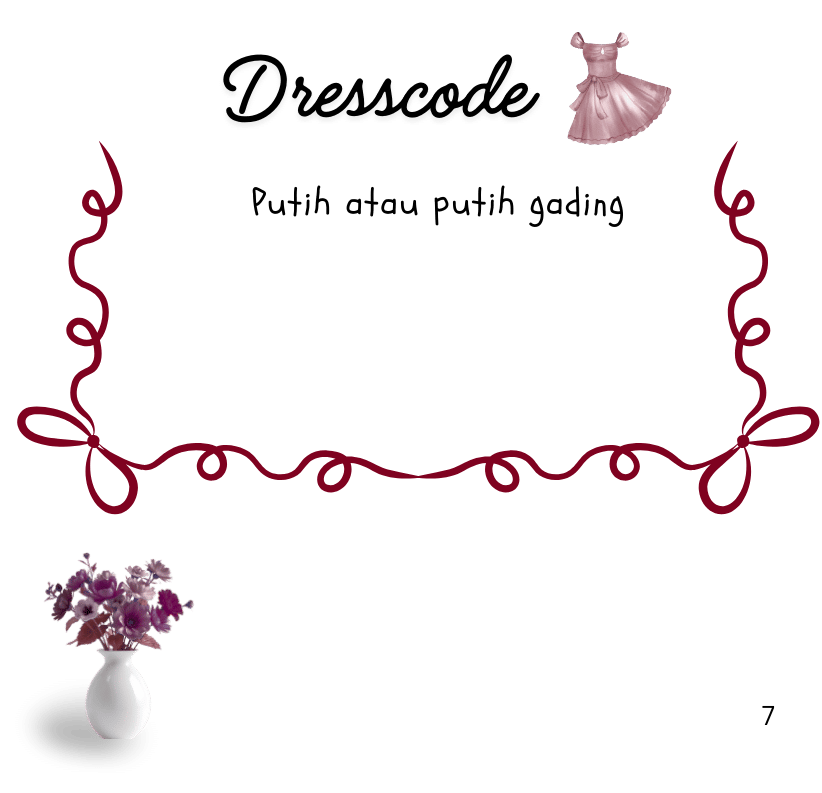
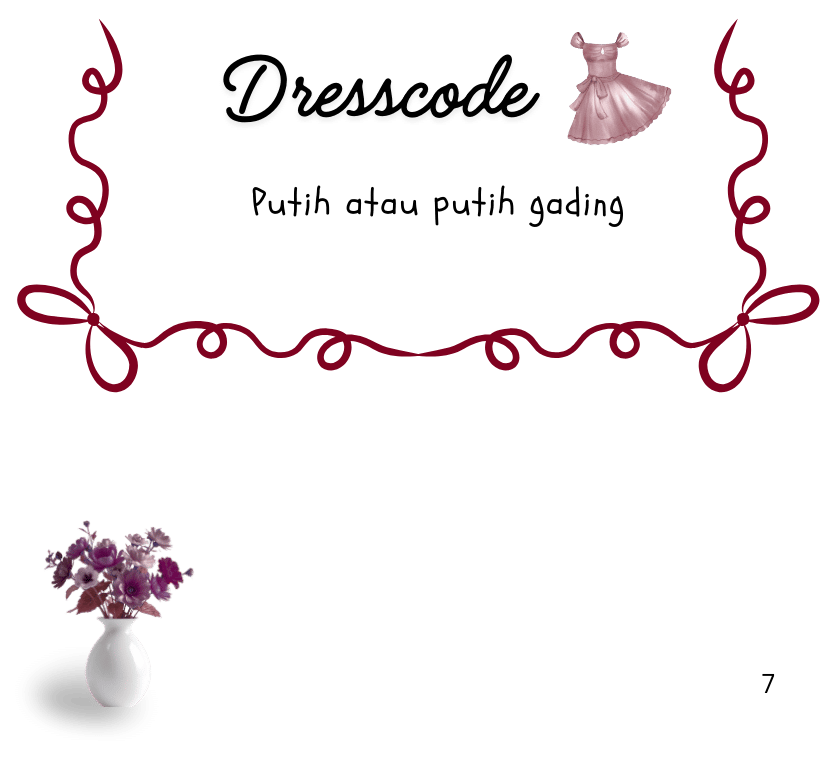
penambahn page 5,6,7

diff --git a/index.html b/index.html
@@ -106,9 +106,21 @@
 
         <section class="page" id="page5">
           <div class="page-inner">
-            <h2 style="text-align: center">Page 5</h2>
+            <div id="p5Top" class="p5-block p5-top" style="opacity: 0">
+              <img src="assets/images/slide5/content1-5.png" class="p5-img" />
+            </div>
 
-            <div class="nav-group">
+            <!-- TENGAH -->
+            <div id="p5Mid" class="p5-block p5-middle" style="opacity: 0">
+              <img src="assets/images/slide5/content2-5.png" class="p5-img" />
+            </div>
+
+            <!-- BAWAH -->
+            <div id="p5Bot" class="p5-block p5-bottom" style="opacity: 0">
+              <img src="assets/images/slide5/content3-5.png" class="p5-img" />
+            </div>
+
+            <div class="nav-group" id="btnNav5">
               <button class="btn-nav-small" onclick="goToPage(3)">
                 <span style="transform: scaleX(-1)">&#10140;</span>
               </button>
@@ -122,11 +134,13 @@
         <!-- PAGE 6 -->
         <section class="page" id="page6">
           <div class="page-inner">
-            <h2 style="text-align: center">Page 6</h2>
+            <div id="content6Wrapper" class="content-wrapper" style="opacity: 0">
+              <img src="assets/images/slide6/content-6.png" class="full-content-img" alt="Content 6" />
+            </div>
 
             <div class="nav-group" id="btnNav6">
               <button class="btn-nav-small" onclick="goToPage(4)">
-                <span style="transform: scaleX(-1)">&#10140;</span>
+                <span style="display: inline-block; transform: scaleX(-1)">&#10140;</span>
               </button>
               <button class="btn-nav-small" onclick="goToPage(6)">
                 <span>&#10140;</span>
@@ -138,9 +152,22 @@
         <!-- PAGE 7 -->
         <section class="page" id="page7">
           <div class="page-inner">
-            <h2 style="text-align: center">Page 7</h2>
+            <div class="split-container">
+              <div id="p7Div1" class="section-part p7-top-part" style="opacity: 0">
+                <img src="assets/images/slide7/top-content-7.png" class="ornament" />
+                <a href="https://maps.google.com" target="_blank" class="btn-maps"> <span class="icon-maps">📍</span> Buka Maps </a>
+              </div>
 
-            <div class="nav-group" id="btnNav7">
+              <div id="p7Div2" class="section-part p7-mid-part" style="opacity: 0">
+                <img src="assets/images/slide7/mid-content-7.png" class="ornament-divider" />
+              </div>
+
+              <div id="p7Div3" class="section-part p7-bot-part" style="opacity: 0">
+                <img src="assets/images/slide7/bot-content-7.png" class="ornament" />
+              </div>
+            </div>
+
+            <div id="btnNav7" class="nav-group" style="opacity: 0">
               <button class="btn-nav-small" onclick="goToPage(5)">
                 <span style="transform: scaleX(-1)">&#10140;</span>
               </button>
@@ -255,33 +282,82 @@
 
         /* ================= PAGE 5 ================= */
         if (index === 4) {
-          const page5 = document.getElementById("page5");
-          const nav5 = page5.querySelector(".nav-group");
+          const top = document.getElementById("p5Top");
+          const mid = document.getElementById("p5Mid");
+          const bot = document.getElementById("p5Bot");
+          const nav5 = document.getElementById("btnNav5");
 
-          nav5.classList.remove("anim-fade-center");
+          [top, mid, bot, nav5].forEach((el) => {
+            el.classList.remove("anim-fade", "anim-fade-center");
+          });
 
           setTimeout(() => {
-            nav5.classList.add("anim-fade-center");
-          }, 800);
+            top.classList.add("anim-fade");
+
+            setTimeout(() => {
+              mid.classList.add("anim-fade");
+
+              setTimeout(() => {
+                bot.classList.add("anim-fade");
+
+                setTimeout(() => {
+                  nav5.classList.add("anim-fade-center");
+                }, 400);
+              }, 500);
+            }, 500);
+          }, 400);
         }
+
         /* ================= PAGE 6 ================= */
         if (index === 5) {
+          const content6 = document.getElementById("content6Wrapper");
           const nav6 = document.getElementById("btnNav6");
+
+          // Reset class jika perlu
+          content6.classList.remove("anim-fade");
           nav6.classList.remove("anim-fade-center");
 
           setTimeout(() => {
-            nav6.classList.add("anim-fade-center");
-          }, 700);
+            // Munculkan gambar dulu
+            content6.classList.add("anim-fade");
+
+            // Munculkan tombol navigasi sedikit setelahnya
+            setTimeout(() => {
+              nav6.classList.add("anim-fade-center");
+            }, 600);
+          }, 400);
         }
 
         /* ================= PAGE 7 ================= */
-        if (index === 6) {
+       if (index === 6) {
+          const div1 = document.getElementById("p7Div1");
+          const div2 = document.getElementById("p7Div2");
+          const div3 = document.getElementById("p7Div3");
           const nav7 = document.getElementById("btnNav7");
+
+          // Reset class agar animasi muncul kembali saat back/next
+          [div1, div2, div3].forEach(el => el.classList.remove("anim-fade"));
           nav7.classList.remove("anim-fade-center");
 
           setTimeout(() => {
-            nav7.classList.add("anim-fade-center");
-          }, 700);
+            // 1. Munculkan Div Atas (Top Content + Maps Button)
+            div1.classList.add("anim-fade");
+
+            setTimeout(() => {
+              // 2. Munculkan Div Tengah
+              div2.classList.add("anim-fade");
+
+              setTimeout(() => {
+                // 3. Munculkan Div Bawah
+                div3.classList.add("anim-fade");
+
+                // 4. Terakhir Munculkan Navigasi
+                setTimeout(() => {
+                  nav7.classList.add("anim-fade-center");
+                }, 500);
+              }, 600);
+            }, 600);
+          }, 400);
         }
 
         /* ================= PAGE 8 ================= */

diff --git a/style.css b/style.css
@@ -350,3 +350,130 @@ body {
     transform: translateX(0) scale(1.1);
   }
 }
+
+/* ===== page5 ===== */
+
+#page5 .page-inner {
+  position: relative;
+  width: 100%;
+  height: 100%;
+
+  display: flex;
+  flex-direction: column;
+  align-items: center;
+  justify-content: center;
+
+  padding: 40px 20px 100px;
+  box-sizing: border-box;
+}
+
+/* BLOK UMUM */
+.p5-block {
+  width: 100%;
+  display: flex;
+  justify-content: center;
+}
+
+.p5-top {
+  margin-top: 10px;
+  margin-bottom: 14px;
+  justify-content: center;
+}
+
+
+/* ===== TOP CONTENT ===== */
+.p5-top {
+  display: flex;
+  justify-content: center;
+  align-items: center;
+  text-align: center;
+}
+
+.p5-top .p5-img {
+  max-width: 280px; /* biar nggak terlalu kecil */
+  margin: 0 auto;
+}
+
+
+/* ===== MIDDLE (FOTO) ===== */
+/* FOTO TENGAH */
+.p5-middle {
+  display: flex;
+  justify-content: center;
+  gap: 10px;
+  margin: 16px 0 20px;
+}
+
+.p5-middle .p5-img {
+  max-width: 170px;   /* <-- DIPERKECIL */
+  border-radius: 6px;
+}
+
+
+/* ===== BOTTOM (AYAT) ===== */
+.p5-bottom {
+  margin-top: 6px;
+  text-align: center;
+}
+
+.p5-bottom .p5-img {
+  max-width: 300px;
+}
+
+/* ===== NAV ===== */
+#btnNav5 {
+  position: absolute;
+  bottom: 18px;
+  left: 50%;
+  transform: translateX(-50%);
+}
+
+
+/* Styling Tombol Maps */
+.btn-maps {
+  display: inline-flex;
+  align-items: center;
+  gap: 8px;
+  background-color: #800020; /* Burgundy Red */
+  color: #fff;
+  text-decoration: none;
+  padding: 8px 16px;
+  border-radius: 20px;
+  font-size: 12px;
+  font-weight: bold;
+  margin-top: 15px; /* Jarak antara gambar top-content dengan tombol */
+  box-shadow: 0 4px 10px rgba(0, 0, 0, 0.2);
+  transition: transform 0.2s, background-color 0.2s;
+}
+
+.btn-maps:hover {
+  background-color: #5a0016;
+  transform: scale(1.05);
+}
+
+.icon-maps {
+  font-size: 14px;
+}
+
+.p7-top-part {
+    justify-content: flex-end !important;
+    padding-bottom: 20px; /* Atur jarak ke divider tengah */
+}
+
+/* Div 2: Tetap fit content (seperti sebelumnya) */
+.p7-mid-part {
+    flex: 0 1 auto !important;
+    padding: 0;
+}
+
+/* Div 3: Paksa konten ke arah atas div */
+.p7-bot-part {
+    justify-content: flex-start !important;
+    padding-top: 20px; /* Atur jarak ke divider tengah */
+}
+
+/* Gambar divider di tengah (Div 2) */
+.ornament-divider {
+    max-width: 60%; /* Atau sesuaikan ukuran aslinya */
+    height: auto;
+}
